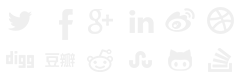
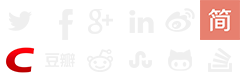
csdn

Changed region(s): [[0.8167, 0.0, 1.0, 0.5], [0.0, 0.575, 0.1458, 0.925]]

diff --git a/css/main.css b/css/main.css
@@ -1,1 +1,1 @@
-body{font-family:Lato,"Microsoft YaHei",sans-serif;font-weight:400;font-size:1.1em}h1{font-size:3.5em;margin:0 0 0.5em 0;margin-top:0}h2{font-size:2em;margin:0 0 0.2em 0;margin-top:0}h3{font-size:1.5em;margin:0 0 0.1em 0;margin-top:0}h4{font-size:1.25em;margin:0 0 0.1em 0;margin-top:0}h5{font-size:1.2em;margin:0 0 0.1em 0;margin-top:0}h6{font-size:1.1em;margin:0 0 0.1em 0;margin-top:0}p{font-size:1.1em;margin:0.5em 0}ul{font-size:1.1em}a{color:#008a75;text-decoration:none;transition:0.5s}a:hover{color:#9f3}a.highlight{color:#9f3}a.highlight:hover{color:#008a75}#lang-panel{position:absolute;right:20px;top:20px;border-radius:5px;z-index:100;font-size:0.8em}#lang-panel .lang{display:inline-block;border-radius:5px;padding:2px 8px}#lang-panel .lang.selected{background-color:#aee2d9;color:#008a75;cursor:default}p{color:#aee2d9}h1{text-shadow:1px 2px #22c3aa,2px 4px #aee2d9;text-align:center}h1+h2,h1+p{margin-top:-0.5em}h2+h1{margin-top:0.8em}h1 em,h2 em,h3 em,h4 em,h5 em,h6 em{color:#008a75;font-style:normal}ul{color:#aee2d9}#title{margin:0.25em 0 0 0}#subtitle{margin:1em 0 0.25em 0;color:#aee2d9}.tag-panel{margin:15px auto}.tag{background-color:#096254;color:#aee2d9;border-radius:3px;display:inline-block;padding:2px 8px;margin-right:3px;margin-bottom:3px;opacity:0.5}.tag.expert{opacity:1}.tag.familiar{opacity:0.75}.content{max-width:800px;margin:0 auto}*{box-sizing:border-box}.section{background-color:#22c3aa;color:#eef3f0;padding:50px;transition:0.5s}.section.initing{display:none}.section.leaving{background-color:#9f3}.center{text-align:center}.clearboth{clear:both}#avatar{width:200px;height:200px;border:10px solid #aee2d9;-webkit-border-radius:50%;-moz-border-radius:50%;-o-border-radius:50%;border-radius:50%}.circle-img{display:inline-block;width:100px;height:100px;border-radius:50%;background-color:#008a75;padding:18px}.circle-img:hover{opacity:0.8}.row{position:relative}.row:after{clear:both}.col-1{width:8.33333%;float:left}.col-2{width:16.66667%;float:left}.col-3{width:25%;float:left}.col-4{width:33.33333%;float:left}.col-5{width:41.66667%;float:left}.col-6{width:50%;float:left}.col-7{width:58.33333%;float:left}.col-8{width:66.66667%;float:left}.col-9{width:75%;float:left}.col-10{width:83.33333%;float:left}.col-11{width:91.66667%;float:left}.col-12{width:100%;float:left}@media screen and (max-width: 760px){.col-1{width:100%}.col-2{width:100%}.col-3{width:100%}.col-4{width:100%}.col-5{width:100%}.col-6{width:100%}.col-7{width:100%}.col-8{width:100%}.col-9{width:100%}.col-10{width:100%}.col-11{width:100%}.col-12{width:100%}#pp-nav{display:none}}#contact-panel{text-align:center;margin-top:1em}.social-share-element{width:40px;height:40px;background-color:#008a75;background-image:url("../img/social.png");transition:0.5s;display:inline-block;margin-right:2px;border-bottom:none;border-radius:20px}.social-share-element:hover{background-color:#096254;border-radius:5px}.social-share-element.social-twitter{background-position:0 0}.social-share-element.social-facebook{background-position:-40px 0}.social-share-element.social-google{background-position:-80px 0}.social-share-element.social-linkedin{background-position:-120px 0}.social-share-element.social-weibo{background-position:-160px 0}.social-share-element.social-digg{background-position:0 40px}.social-share-element.social-douban{background-position:-40px 40px}.social-share-element.social-reddit{background-position:-80px 40px}.social-share-element.social-stumble{background-position:-120px 40px}.social-share-element.social-github{background-position:-160px 40px}.social-share-text{font-weight:bold;text-indent:0}#footer-follow{margin:0 auto;width:220px}.footer-follow-element{width:32px;height:32px;background-image:url("../../blog/img/social.png");background-size:160px 60px;transition:1s;display:inline-block;border-bottom:none}.footer-follow-element:hover{background-color:#DB6968;border-radius:50%}.mobile *{text-shadow:none !important}.mobile #avatar{width:128px;height:128px;border:0}.mobile .circle-img{margin:20px 10px}.mobile h2{text-align:center}.mobile h1{font-size:2.625em;margin:0 0 0.5em 0;margin-top:0}.mobile h2{font-size:1.5em;margin:0 0 0.2em 0;margin-top:0}.mobile h3{font-size:1.125em;margin:0 0 0.1em 0;margin-top:0}.mobile h4{font-size:0.9375em;margin:0 0 0.1em 0;margin-top:0}.mobile h5{font-size:0.9em;margin:0 0 0.1em 0;margin-top:0}.mobile h6{font-size:0.825em;margin:0 0 0.1em 0;margin-top:0}.mobile p{font-size:0.88em}.mobile ul{font-size:0.88em}.mobile .section{padding:50px 10px}.mobile #profession.section.center{text-align:left}.mobile #project.section{text-align:center}
+body{font-family:Lato,"Microsoft YaHei",sans-serif;font-weight:400;font-size:1.1em}h1{font-size:3.5em;margin:0 0 0.5em 0;margin-top:0}h2{font-size:2em;margin:0 0 0.2em 0;margin-top:0}h3{font-size:1.5em;margin:0 0 0.1em 0;margin-top:0}h4{font-size:1.25em;margin:0 0 0.1em 0;margin-top:0}h5{font-size:1.2em;margin:0 0 0.1em 0;margin-top:0}h6{font-size:1.1em;margin:0 0 0.1em 0;margin-top:0}p{font-size:1.1em;margin:0.5em 0}ul{font-size:1.1em}a{color:#008a75;text-decoration:none;transition:0.5s}a:hover{color:#9f3}a.highlight{color:#9f3}a.highlight:hover{color:#008a75}#lang-panel{position:absolute;right:20px;top:20px;border-radius:5px;z-index:100;font-size:0.8em}#lang-panel .lang{display:inline-block;border-radius:5px;padding:2px 8px}#lang-panel .lang.selected{background-color:#aee2d9;color:#008a75;cursor:default}p{color:#aee2d9}h1{text-shadow:1px 2px #22c3aa,2px 4px #aee2d9;text-align:center}h1+h2,h1+p{margin-top:-0.5em}h2+h1{margin-top:0.8em}h1 em,h2 em,h3 em,h4 em,h5 em,h6 em{color:#008a75;font-style:normal}ul{color:#aee2d9}#title{margin:0.25em 0 0 0}#subtitle{margin:1em 0 0.25em 0;color:#aee2d9}.tag-panel{margin:15px auto}.tag{background-color:#096254;color:#aee2d9;border-radius:3px;display:inline-block;padding:2px 8px;margin-right:3px;margin-bottom:3px;opacity:0.5}.tag.expert{opacity:1}.tag.familiar{opacity:0.75}.content{max-width:800px;margin:0 auto}*{box-sizing:border-box}.section{background-color:#22c3aa;color:#eef3f0;padding:50px;transition:0.5s}.section.initing{display:none}.section.leaving{background-color:#9f3}.center{text-align:center}.clearboth{clear:both}#avatar{width:200px;height:200px;border:10px solid #aee2d9;-webkit-border-radius:50%;-moz-border-radius:50%;-o-border-radius:50%;border-radius:50%}.circle-img{display:inline-block;width:100px;height:100px;border-radius:50%;background-color:#008a75;padding:18px}.circle-img:hover{opacity:0.8}.row{position:relative}.row:after{clear:both}.col-1{width:8.33333%;float:left}.col-2{width:16.66667%;float:left}.col-3{width:25%;float:left}.col-4{width:33.33333%;float:left}.col-5{width:41.66667%;float:left}.col-6{width:50%;float:left}.col-7{width:58.33333%;float:left}.col-8{width:66.66667%;float:left}.col-9{width:75%;float:left}.col-10{width:83.33333%;float:left}.col-11{width:91.66667%;float:left}.col-12{width:100%;float:left}@media screen and (max-width: 760px){.col-1{width:100%}.col-2{width:100%}.col-3{width:100%}.col-4{width:100%}.col-5{width:100%}.col-6{width:100%}.col-7{width:100%}.col-8{width:100%}.col-9{width:100%}.col-10{width:100%}.col-11{width:100%}.col-12{width:100%}#pp-nav{display:none}}#contact-panel{text-align:center;margin-top:1em}.social-share-element{width:40px;height:40px;background-color:#008a75;background-image:url("../img/social.png");transition:0.5s;display:inline-block;margin-right:2px;border-bottom:none;border-radius:20px}.social-share-element:hover{background-color:#096254;border-radius:5px}.social-share-element.social-twitter{background-position:0 0}.social-share-element.social-facebook{background-position:-40px 0}.social-share-element.social-google{background-position:-80px 0}.social-share-element.social-linkedin{background-position:-120px 0}.social-share-element.social-weibo{background-position:-160px 0}.social-share-element.social-jianshu{background-position:-200px 0}.social-share-element.social-csdn{background-position:0 40px}.social-share-element.social-douban{background-position:-40px 40px}.social-share-element.social-reddit{background-position:-80px 40px}.social-share-element.social-stumble{background-position:-120px 40px}.social-share-element.social-github{background-position:-160px 40px}.social-share-text{font-weight:bold;text-indent:0}#footer-follow{margin:0 auto;width:220px}.footer-follow-element{width:32px;height:32px;background-image:url("../../blog/img/social.png");background-size:160px 60px;transition:1s;display:inline-block;border-bottom:none}.footer-follow-element:hover{background-color:#DB6968;border-radius:50%}.mobile *{text-shadow:none !important}.mobile #avatar{width:128px;height:128px;border:0}.mobile .circle-img{margin:20px 10px}.mobile h2{text-align:center}.mobile h1{font-size:2.625em;margin:0 0 0.5em 0;margin-top:0}.mobile h2{font-size:1.5em;margin:0 0 0.2em 0;margin-top:0}.mobile h3{font-size:1.125em;margin:0 0 0.1em 0;margin-top:0}.mobile h4{font-size:0.9375em;margin:0 0 0.1em 0;margin-top:0}.mobile h5{font-size:0.9em;margin:0 0 0.1em 0;margin-top:0}.mobile h6{font-size:0.825em;margin:0 0 0.1em 0;margin-top:0}.mobile p{font-size:0.88em}.mobile ul{font-size:0.88em}.mobile .section{padding:50px 10px}.mobile #profession.section.center{text-align:left}.mobile #project.section{text-align:center}

diff --git a/index.html b/index.html
@@ -78,6 +78,8 @@
 
                 <div id="contact-panel">
                     <a class="social-share-element social-github" href="https://github.com/Utopia-Protector" target="_blank" title="Follow me on GitHub" onclick="_gaq.push(['_trackEvent', 'Follow', 'GitHub', 'InCv']);"></a>
+<a class="social-share-element social-csdn" href="http://blog.csdn.net/nathan1987_" target="_blank" title="Follow me on CSDN" onclick="_gaq.push(['_trackEvent', 'Follow', 'CSDN', 'InCv']);"></a>
+<a class="social-share-element social-jianshu" href="http://www.jianshu.com/u/5026cf85b55e" target="_blank" title="Follow me on JIANSHU" onclick="_gaq.push(['_trackEvent', 'Follow', 'JIANSHU', 'InCv']);"></a>
 
                 </div>
             </div>
